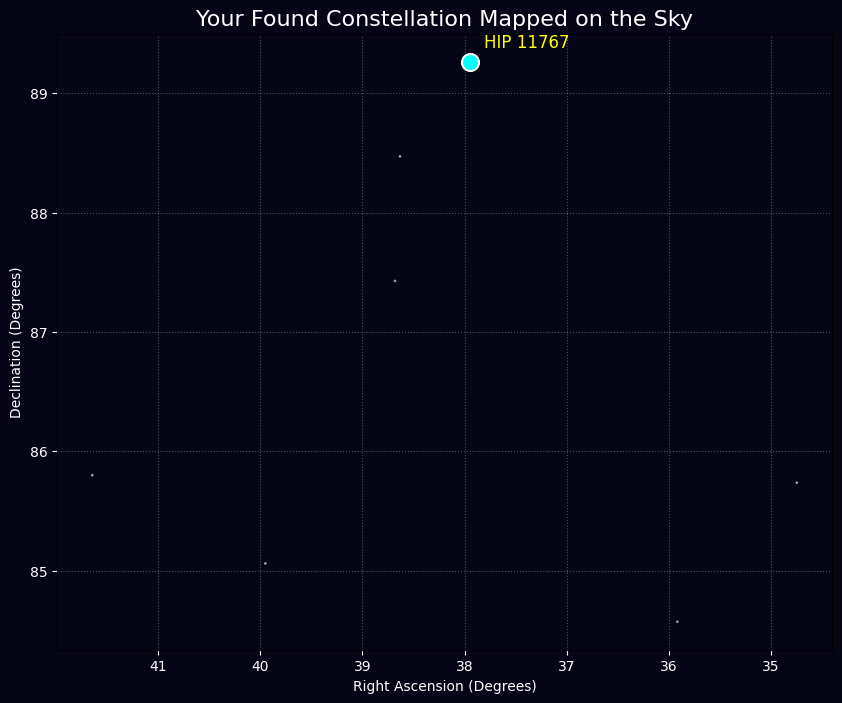
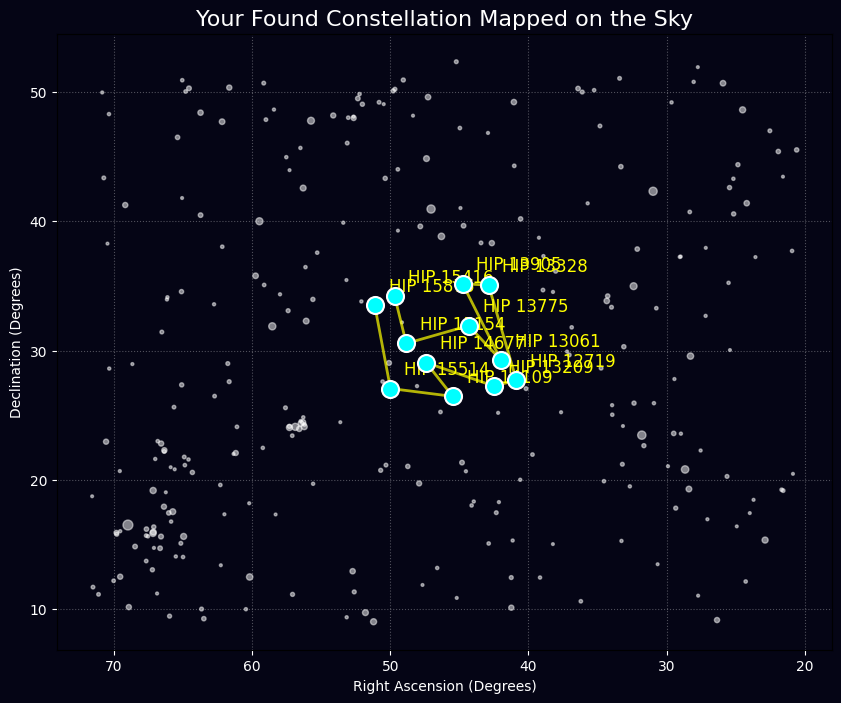
Refactored to allow all stars to be visible. THIS does reduce the number of stars from 6.7 million to 236000 so might be too small for some models?

diff --git a/constellocate/app/src/triangles.py b/constellocate/app/src/triangles.py
@@ -149,7 +149,7 @@ def searchTriangles(userVertices, starDb, starTriangleDb, ratioTolerance=0.01, p
             # see how much it takes to transform real points to user points
             userAnchorPoints = np.array([p1, p2, p3])
             tform = SimilarityTransform()
-            tform.from_estimate(userAnchorPoints, anchorStarsCoords) 
+            tform.estimate(userAnchorPoints, anchorStarsCoords) 
 
             #now apply that same transformation to every other drawn point, and see if they map to real stars in the map
             projection = tform(userPoints)
@@ -166,7 +166,12 @@ def searchTriangles(userVertices, starDb, starTriangleDb, ratioTolerance=0.01, p
 
                 if len(set(winningHIPS)) == numPoints:
 
+                    
+
+
                     sortedHIPS = tuple(sorted(winningHIPS.tolist()))
+
+                    # print("VMAGS", starDb[starDb['HIP'].isin(sortedHIPS)]['Vmag'])
 
                     if sortedHIPS not in seenConstellations:
                         # print("Found a win!!!!")

diff --git a/constellocate/app/src/parse.py b/constellocate/app/src/parse.py
@@ -12,9 +12,10 @@ def parse_hipparcos(file_path):
     star_db = star_db.dropna()
     
     # if want to make only for visible stars:
-    # visible_stars = star_db[star_db['Vmag'] <= 6.0]
+    star_db['Vmag'] = pd.to_numeric(star_db['Vmag'], errors='coerce')
+    visibleStars = star_db[star_db['Vmag'] <= 6.0]
     
-    return star_db
+    return visibleStars
 
 
 def project_stars_to_2d(ra_star, dec_star, ra_center, dec_center):

diff --git a/constellocate/app/src/test.py b/constellocate/app/src/test.py
@@ -19,7 +19,7 @@ stars2d = pd.read_csv("2D_app_star_database.csv")
 print("Read data")
 
 
-userVertices = [(2, 0)]
+userVertices = [(0, 0), (0, 5), (2, 5), (2.5, 3.5), (3, 5), (5, 5), (5, 0), (4, 0), (4, 3), (2.5, 1.5), (1, 3), (1, 0)]
 print("Finding Data")
 
 foundStars = searchTriangles(userVertices, stars2d, starTriangles)
